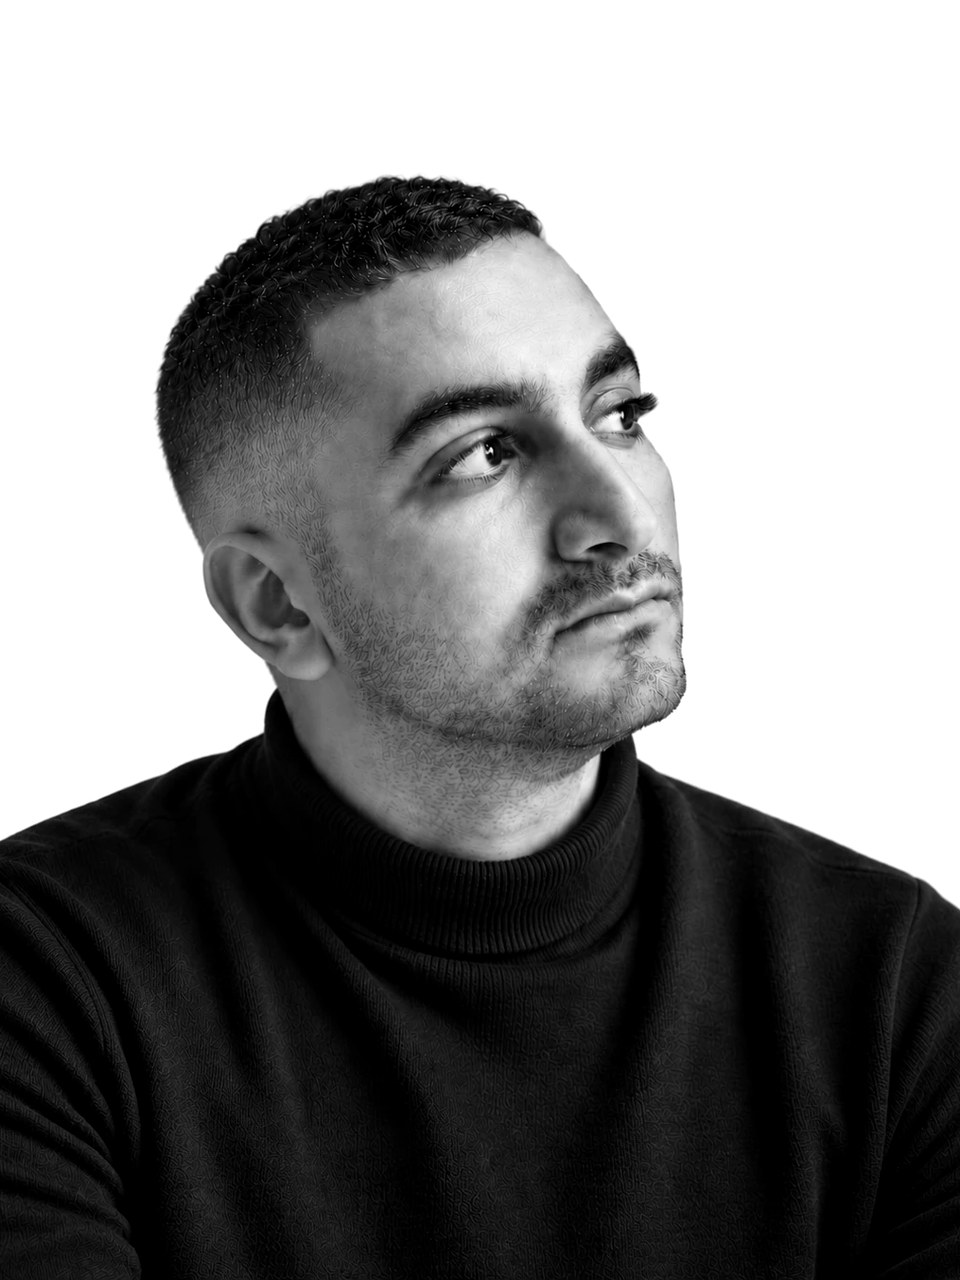
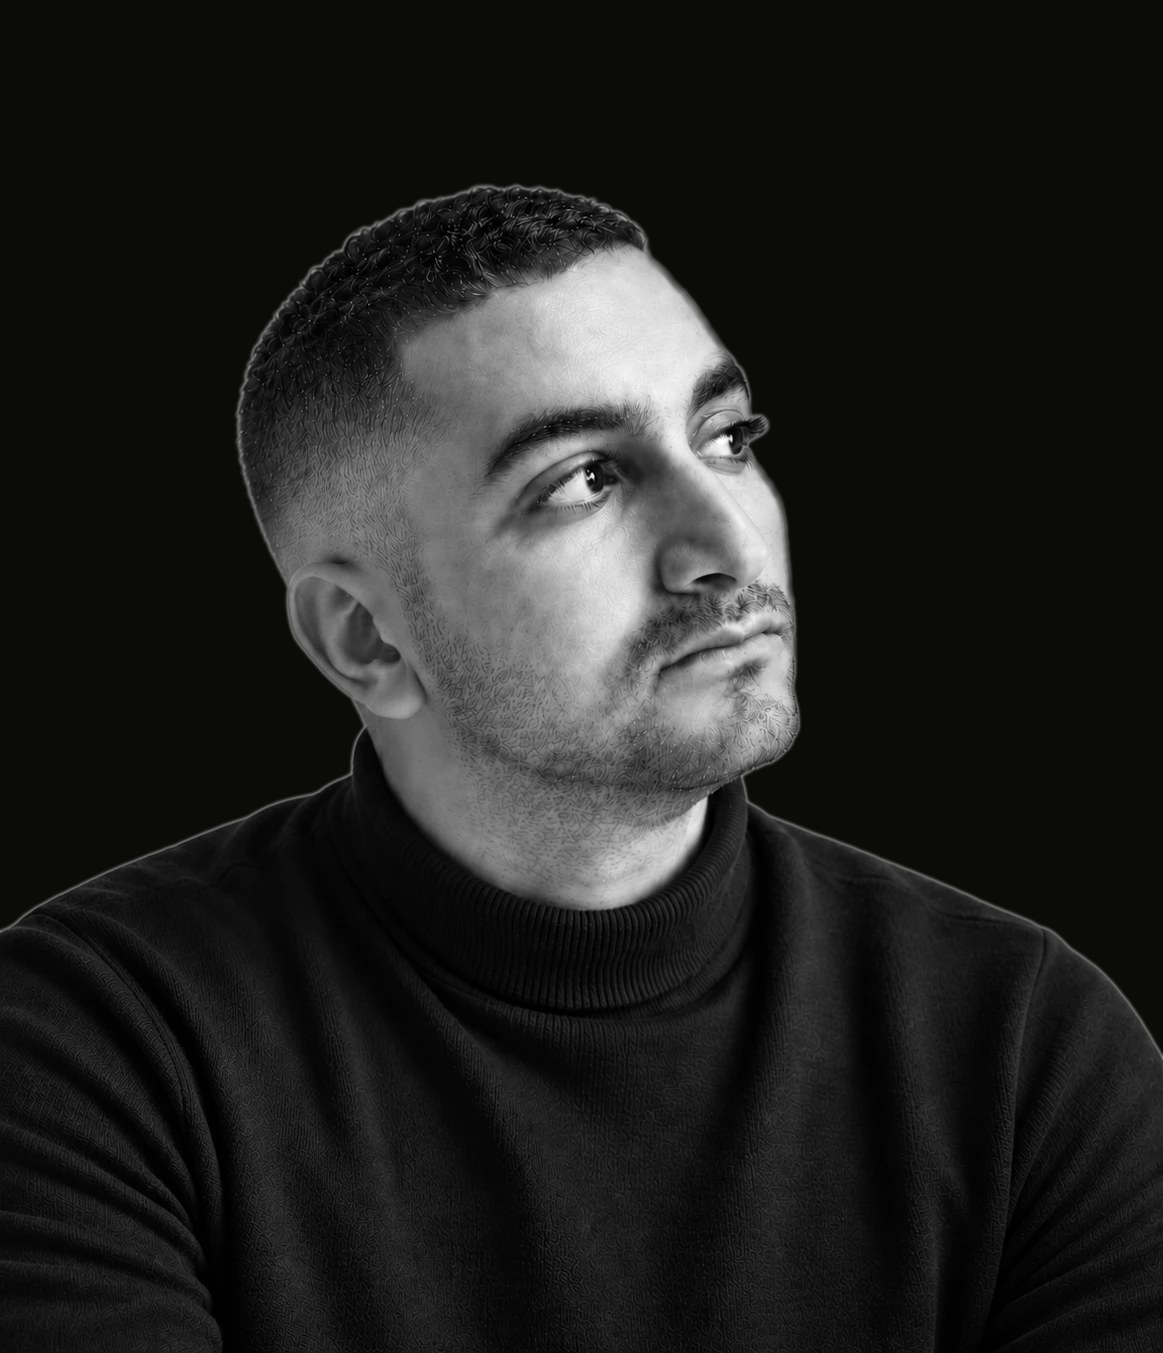
Hero portrait pinned to the page edge with a soft fade into the background; centred profile circle
Claude-Session: https://claude.ai/code/session_01BGLiEJkpTWKADYGLjZmT4M

diff --git a/styles.css b/styles.css
@@ -563,3 +563,33 @@ html[lang="ar"] .hero__head.has-portrait .hero__name { font-size: clamp(56px, 12
   .hero__portrait--round img { width: 120px; outline-offset: 7px; }
   .hero__portrait--tall .frame { width: 58%; }
 }
+
+/* edge portrait: pinned to the page edge, fading into the background */
+.hero { position: relative; overflow: hidden; }
+.hero > .wrap { position: relative; }
+.hero__meta, .hero__name, .hero__role { position: relative; z-index: 1; }
+.hero__head.has-portrait { grid-template-columns: minmax(0, 1fr); }
+.hero__portrait--edge {
+  position: absolute; z-index: 0; top: 0; inset-inline-end: 0; margin: 0; padding: 0;
+  height: clamp(520px, 46vw, 780px); aspect-ratio: 1163 / 1353; pointer-events: none;
+  -webkit-mask-image: linear-gradient(to right, transparent 0%, #000 42%); mask-image: linear-gradient(to right, transparent 0%, #000 42%);
+  animation: portraitIn 2.2s var(--ease) both;
+}
+html[dir="rtl"] .hero__portrait--edge {
+  -webkit-mask-image: linear-gradient(to left, transparent 0%, #000 42%); mask-image: linear-gradient(to left, transparent 0%, #000 42%);
+}
+.hero__portrait--edge img {
+  display: block; width: 100%; height: 100%; object-fit: cover; object-position: 50% 15%; transform: scaleX(-1); filter: none;
+  -webkit-mask-image: linear-gradient(to bottom, transparent 0%, #000 14%, #000 52%, transparent 94%);
+  mask-image: linear-gradient(to bottom, transparent 0%, #000 14%, #000 52%, transparent 94%);
+}
+html[dir="rtl"] .hero__portrait--edge img { transform: none; }
+@keyframes portraitIn { from { opacity: 0; } to { opacity: 1; } }
+@media (max-width: 760px) {
+  .hero__portrait--edge, html[dir="rtl"] .hero__portrait--edge {
+    position: relative; inset: auto; width: calc(100% + 2 * var(--gutter)); margin-inline: calc(var(--gutter) * -1); height: auto; aspect-ratio: 1 / 0.95;
+    -webkit-mask-image: none; mask-image: none;
+  }
+  .hero__portrait--edge img { object-position: 50% 12%; }
+}
+@media (prefers-reduced-motion: reduce) { .hero__portrait--edge { animation: none; } }

diff --git a/app.js b/app.js
@@ -196,7 +196,7 @@
         <div class="hero__head${P.photoLarge ? " has-portrait" : ""}">
           <h1 class="hero__name reveal">${nameHTML}</h1>
           ${P.photoLarge
-            ? `<figure class="hero__portrait hero__portrait--tall unveil"><div class="frame"><div class="zoom"><img src="${esc(P.photoLarge)}" alt="${T(P.name)}" /></div></div></figure>`
+            ? `<figure class="hero__portrait hero__portrait--edge" aria-hidden="true"><img src="${esc(P.photoLarge)}" alt="" /></figure>`
             : ""}
         </div>
         <div class="hero__role reveal">
